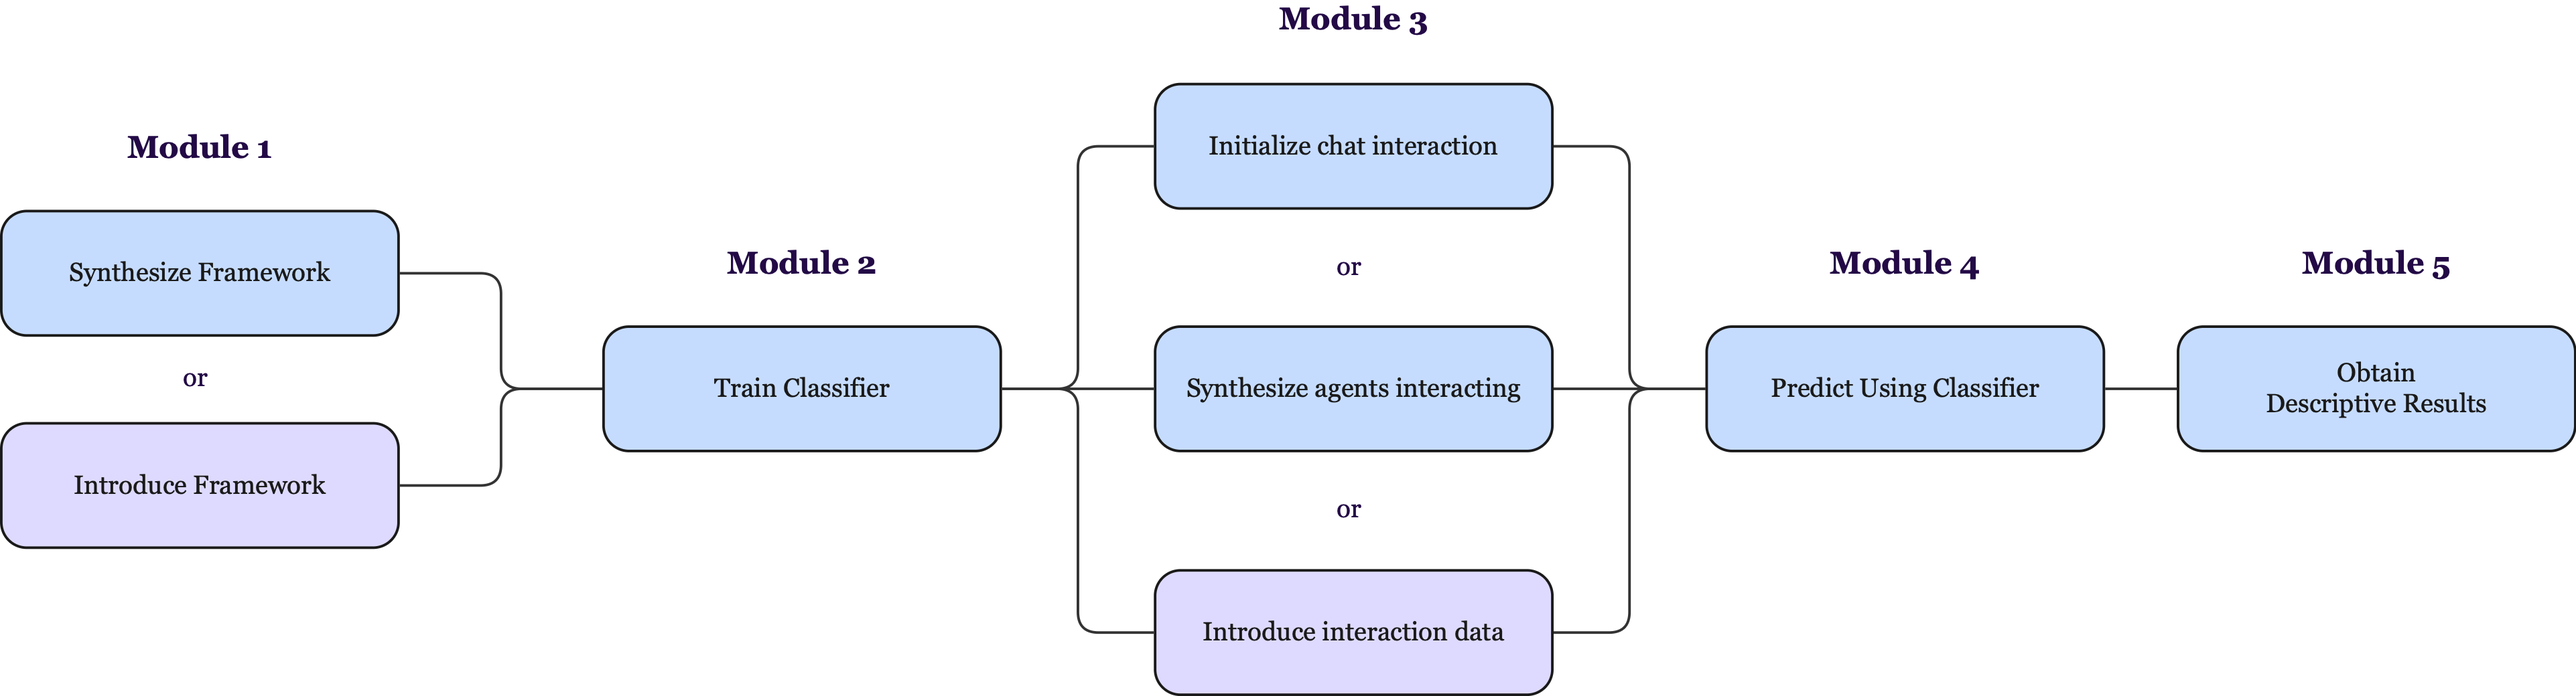
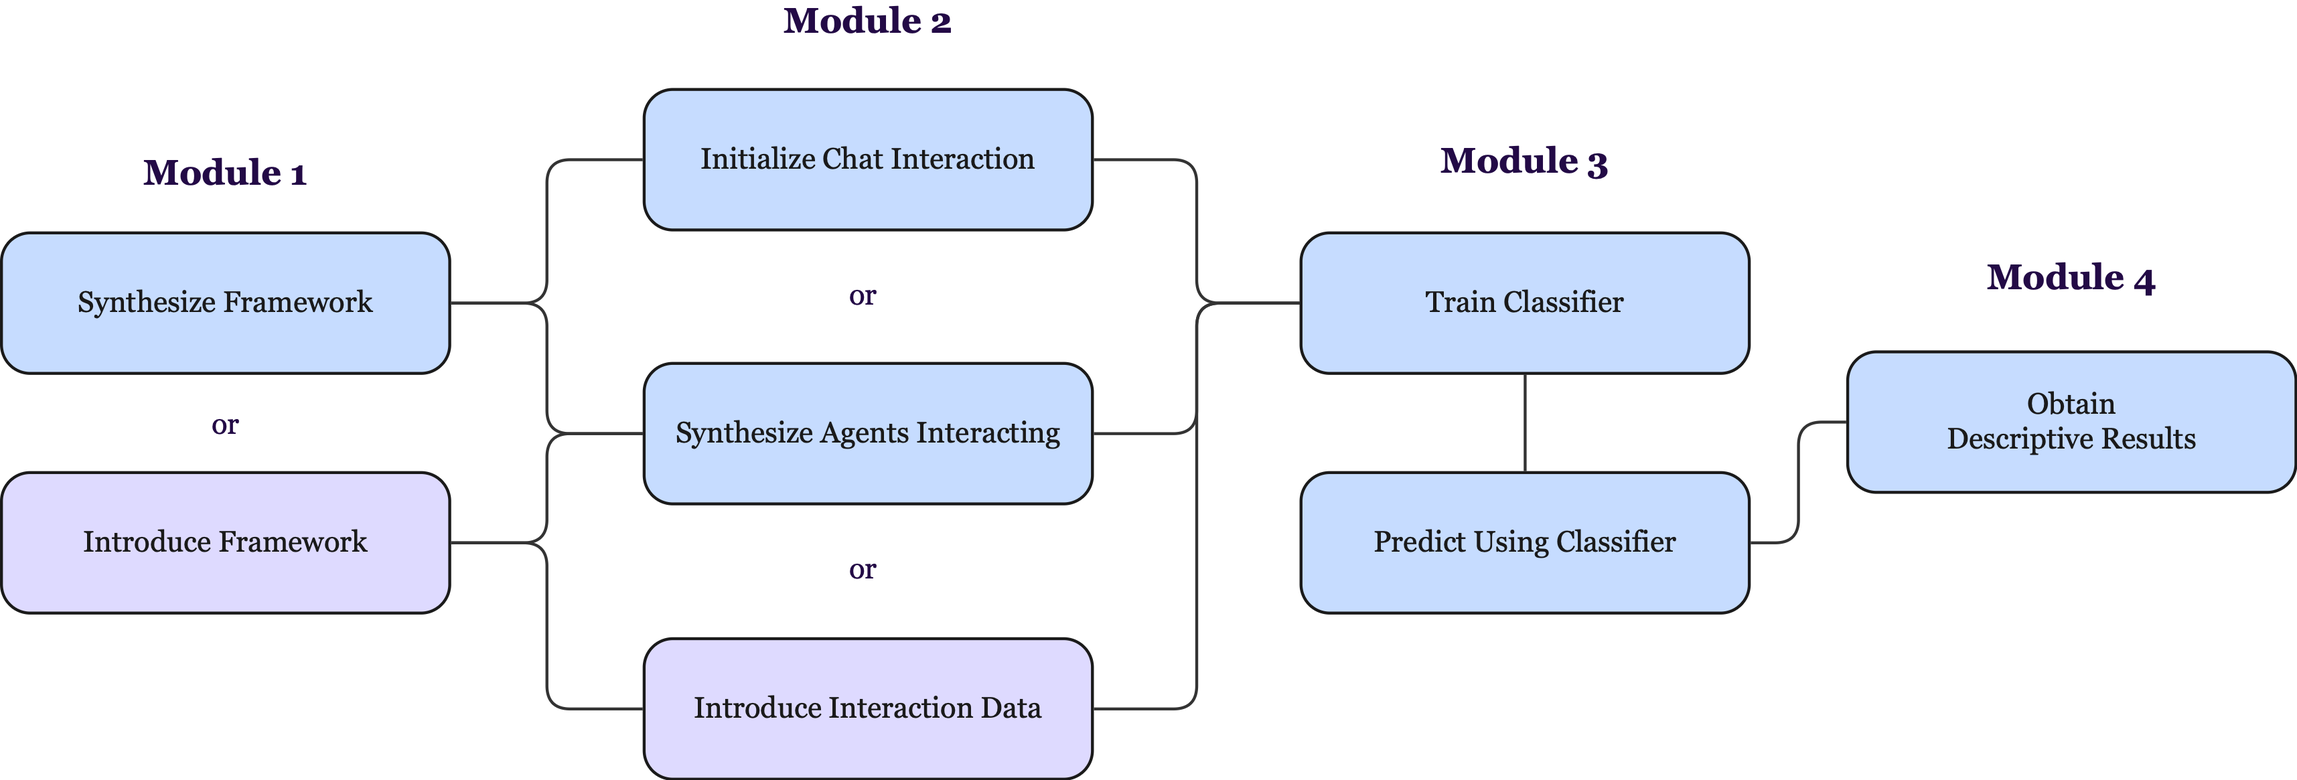
rm

diff --git a/README.md b/README.md
@@ -2,7 +2,7 @@
 something about this being the repo for my thesis with a niiice outline over how its structured: 
 temporary picture of how it may look - mainly for my own overview:
 
-![flowchart](flowchart.png)
+![flowchart](new_flowchart.png)
 
 ### something about how to run and why 
 
@@ -37,8 +37,7 @@ from chat_wrap_edu_pack install generate
 │   ├── generated_dialogue_data/           # Generated dialogue samples
 │   ├── generated_tuning_data/             # Generated framework data for fine-tuning 
 │   ├── logged_dialogue_data/              # Logged real dialogue data
-│   ├── tiny_labeled_data.csv              # Manual true data (needs folder)
-│   └── tiny_labeled_feedback.csv          # -----..------- 
+│   ├── Final_output/                      # 
 │
 ├── Models/                                # Folder for trained models and checkpoints (ignored)
 │
